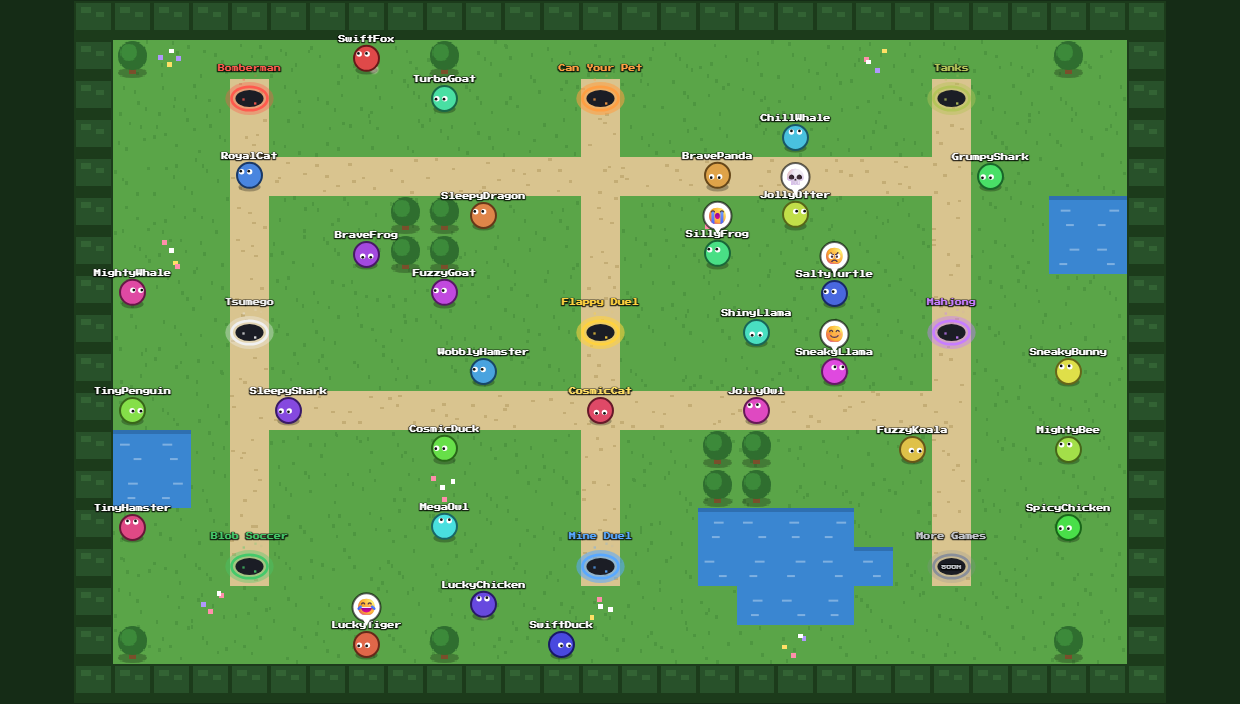
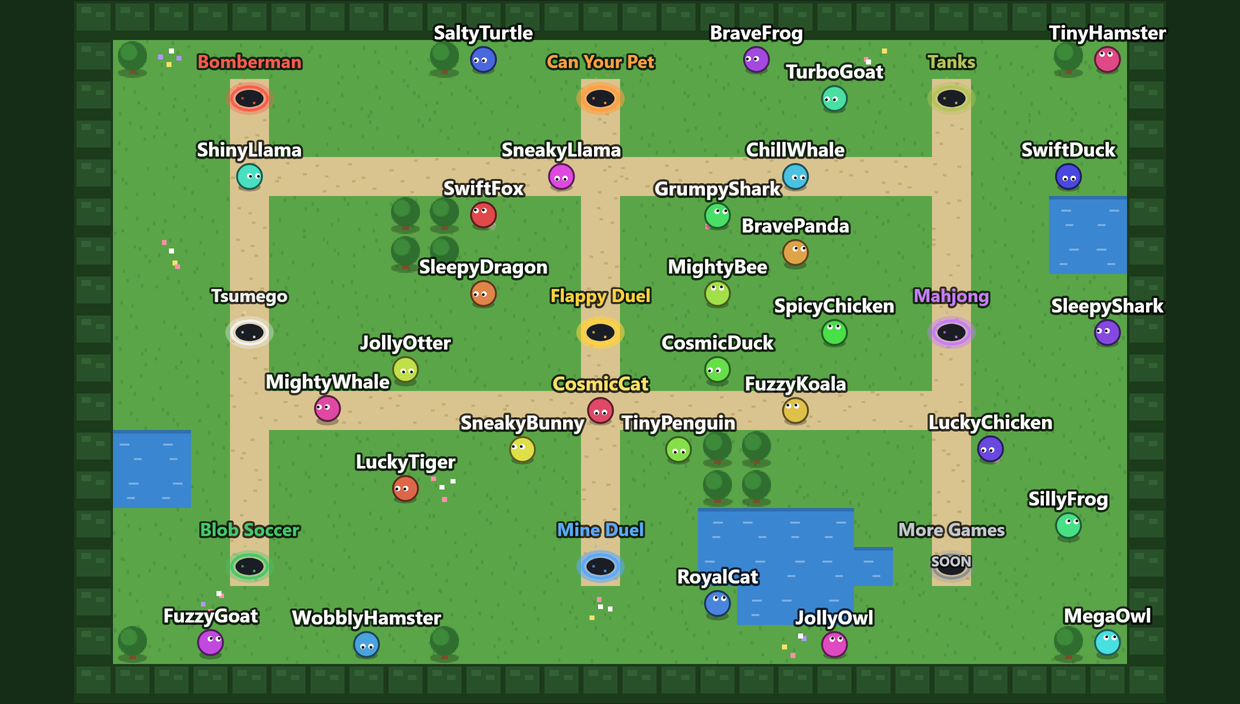
style: legible plaza image desk and mobile

diff --git a/index.html b/index.html
@@ -39,7 +39,12 @@
     <!-- The plaza is the walk-around lobby for every game below, so it gets a banner rather than a card. -->
     <a class="plaza-banner" href="https://io.dreamteamhub.ca/">
       <div class="plaza-banner__media">
-        <img src="images/projects/plaza.png" alt="" decoding="async">
+        <!-- Phones get a closer crop of the plaza so player names stay readable at that size;
+             700px is where the banner stacks (see .plaza-banner in css/styles.css). -->
+        <picture>
+          <source media="(max-width: 700px)" srcset="images/projects/plaza-mobile.png">
+          <img src="images/projects/plaza.png" alt="" decoding="async">
+        </picture>
       </div>
       <div class="plaza-banner__body">
         <span class="plaza-banner__badge">New &middot; multiplayer</span>

diff --git a/css/styles.css b/css/styles.css
@@ -264,6 +264,10 @@ main {
   background: #24452a;
 }
 
+.plaza-banner__media picture {
+  display: contents;
+}
+
 .plaza-banner__media img {
   display: block;
   width: 100%;
